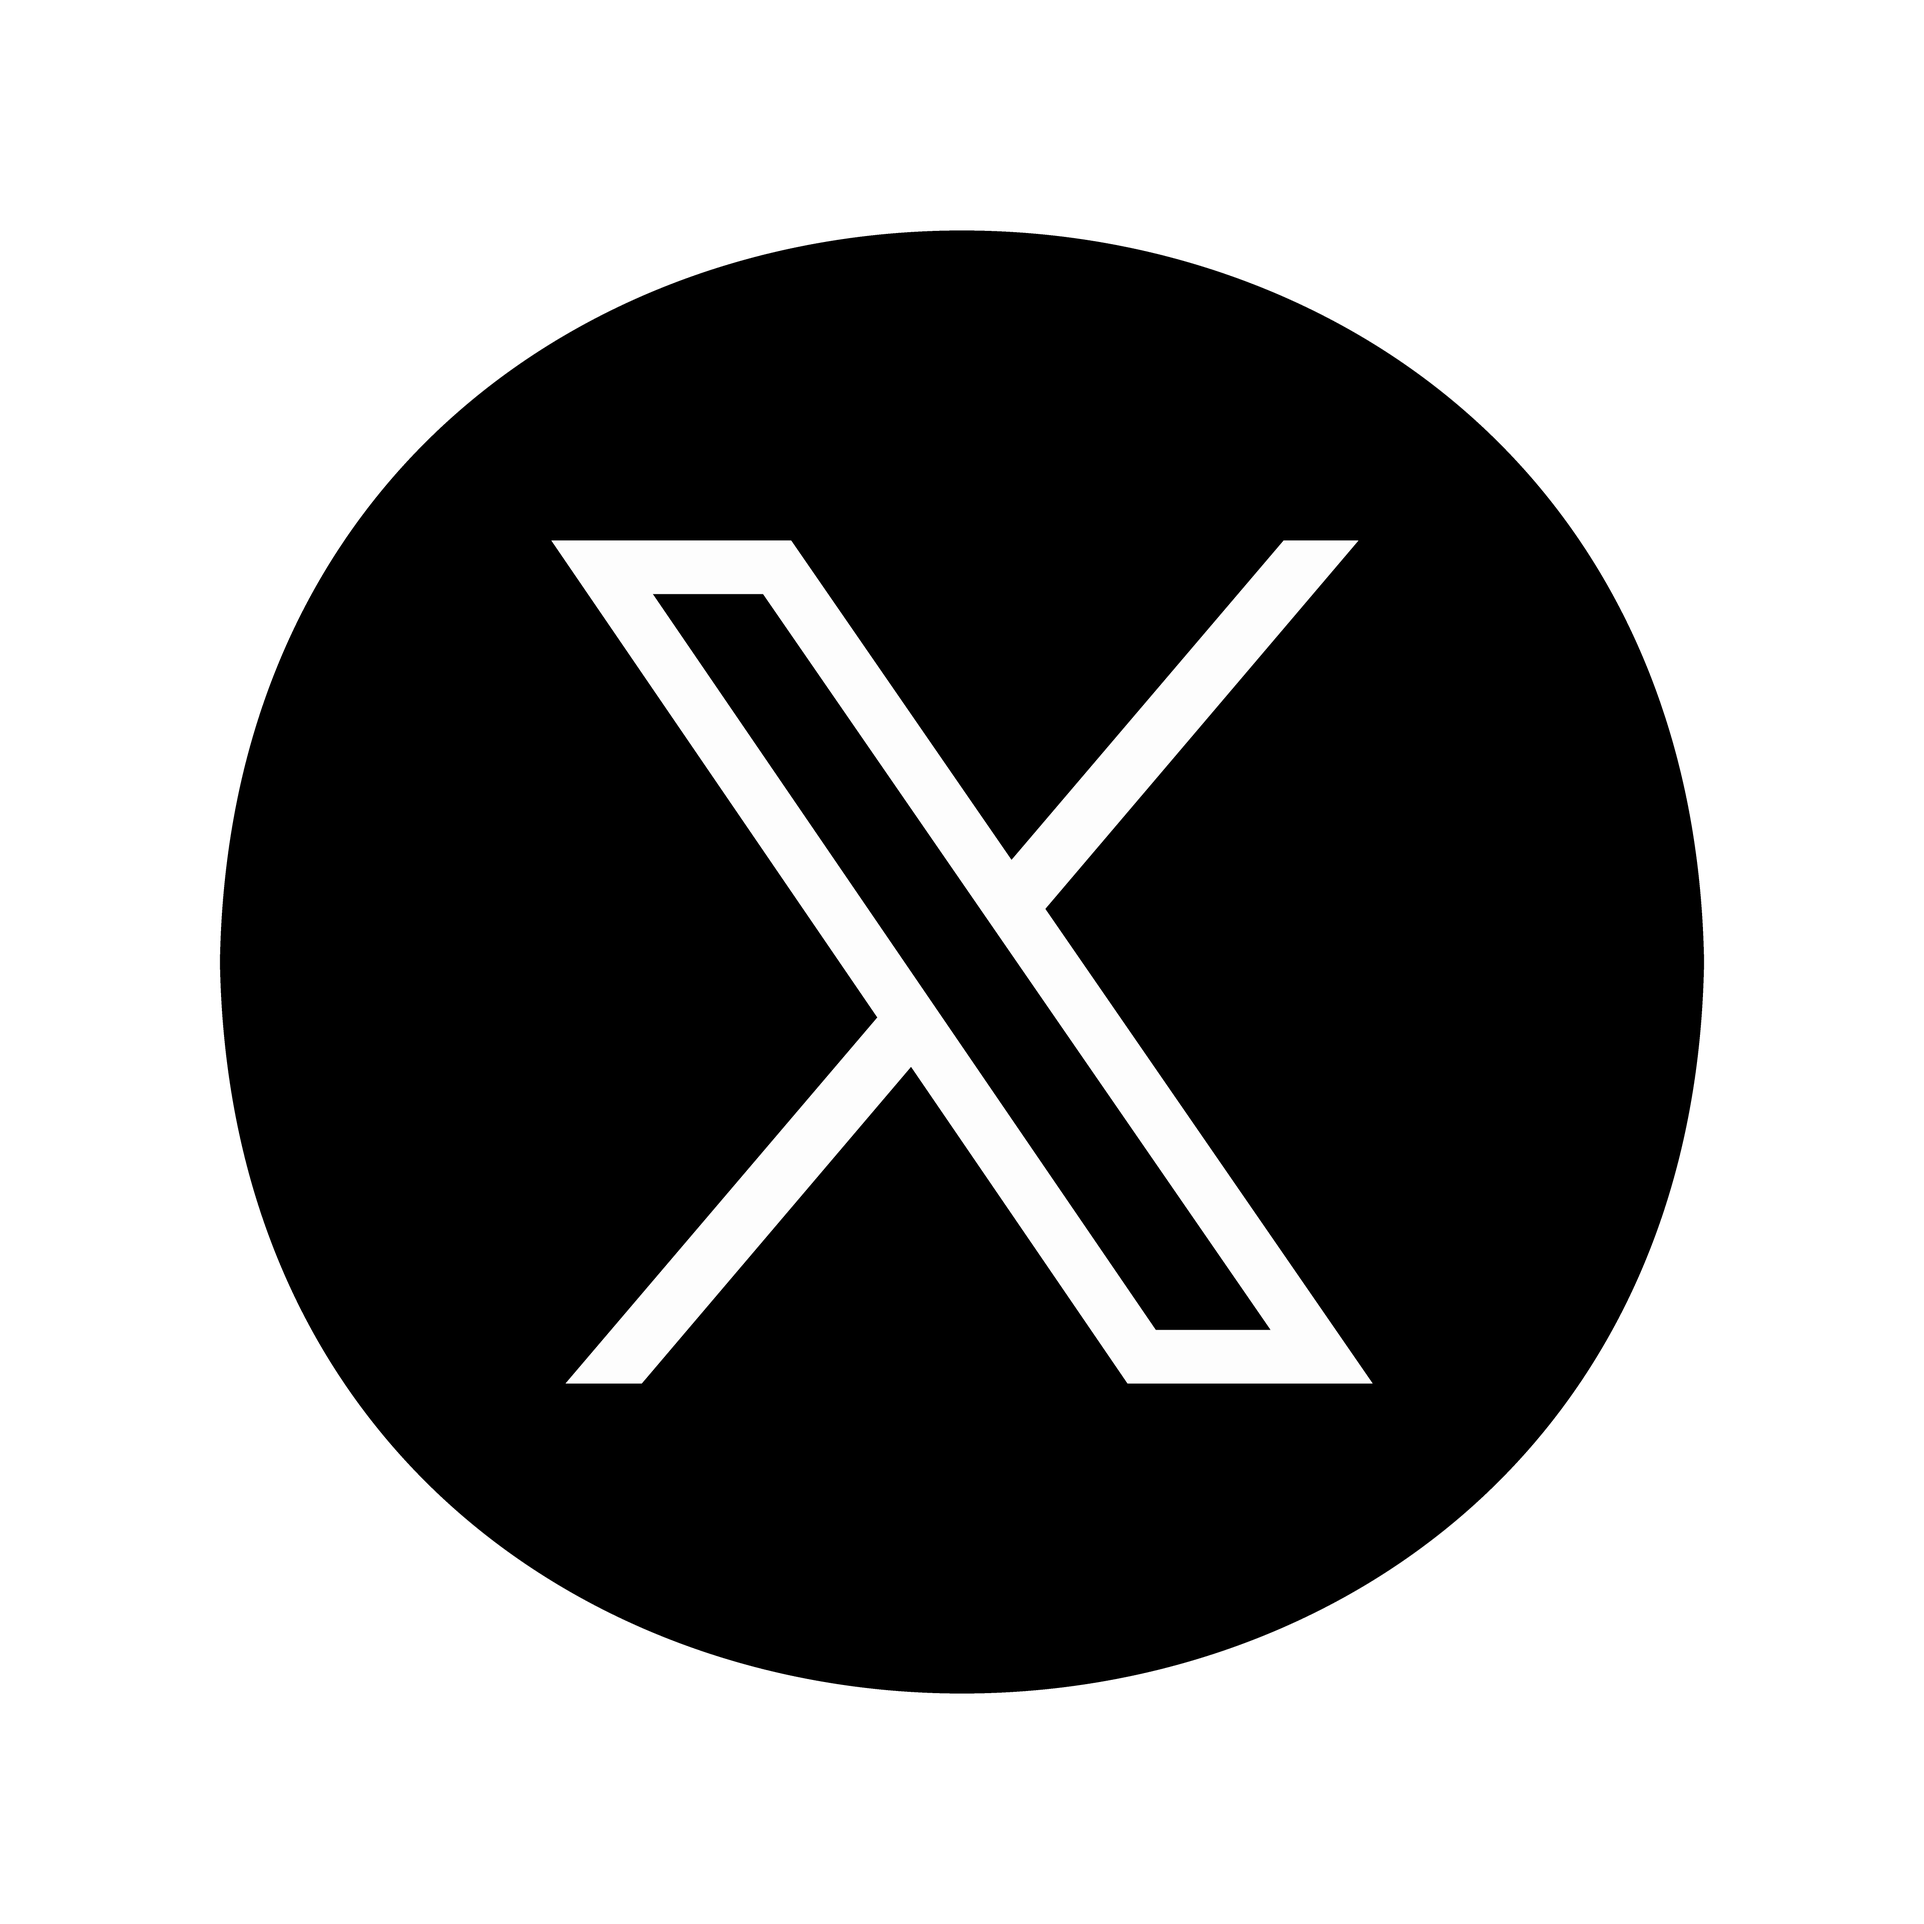
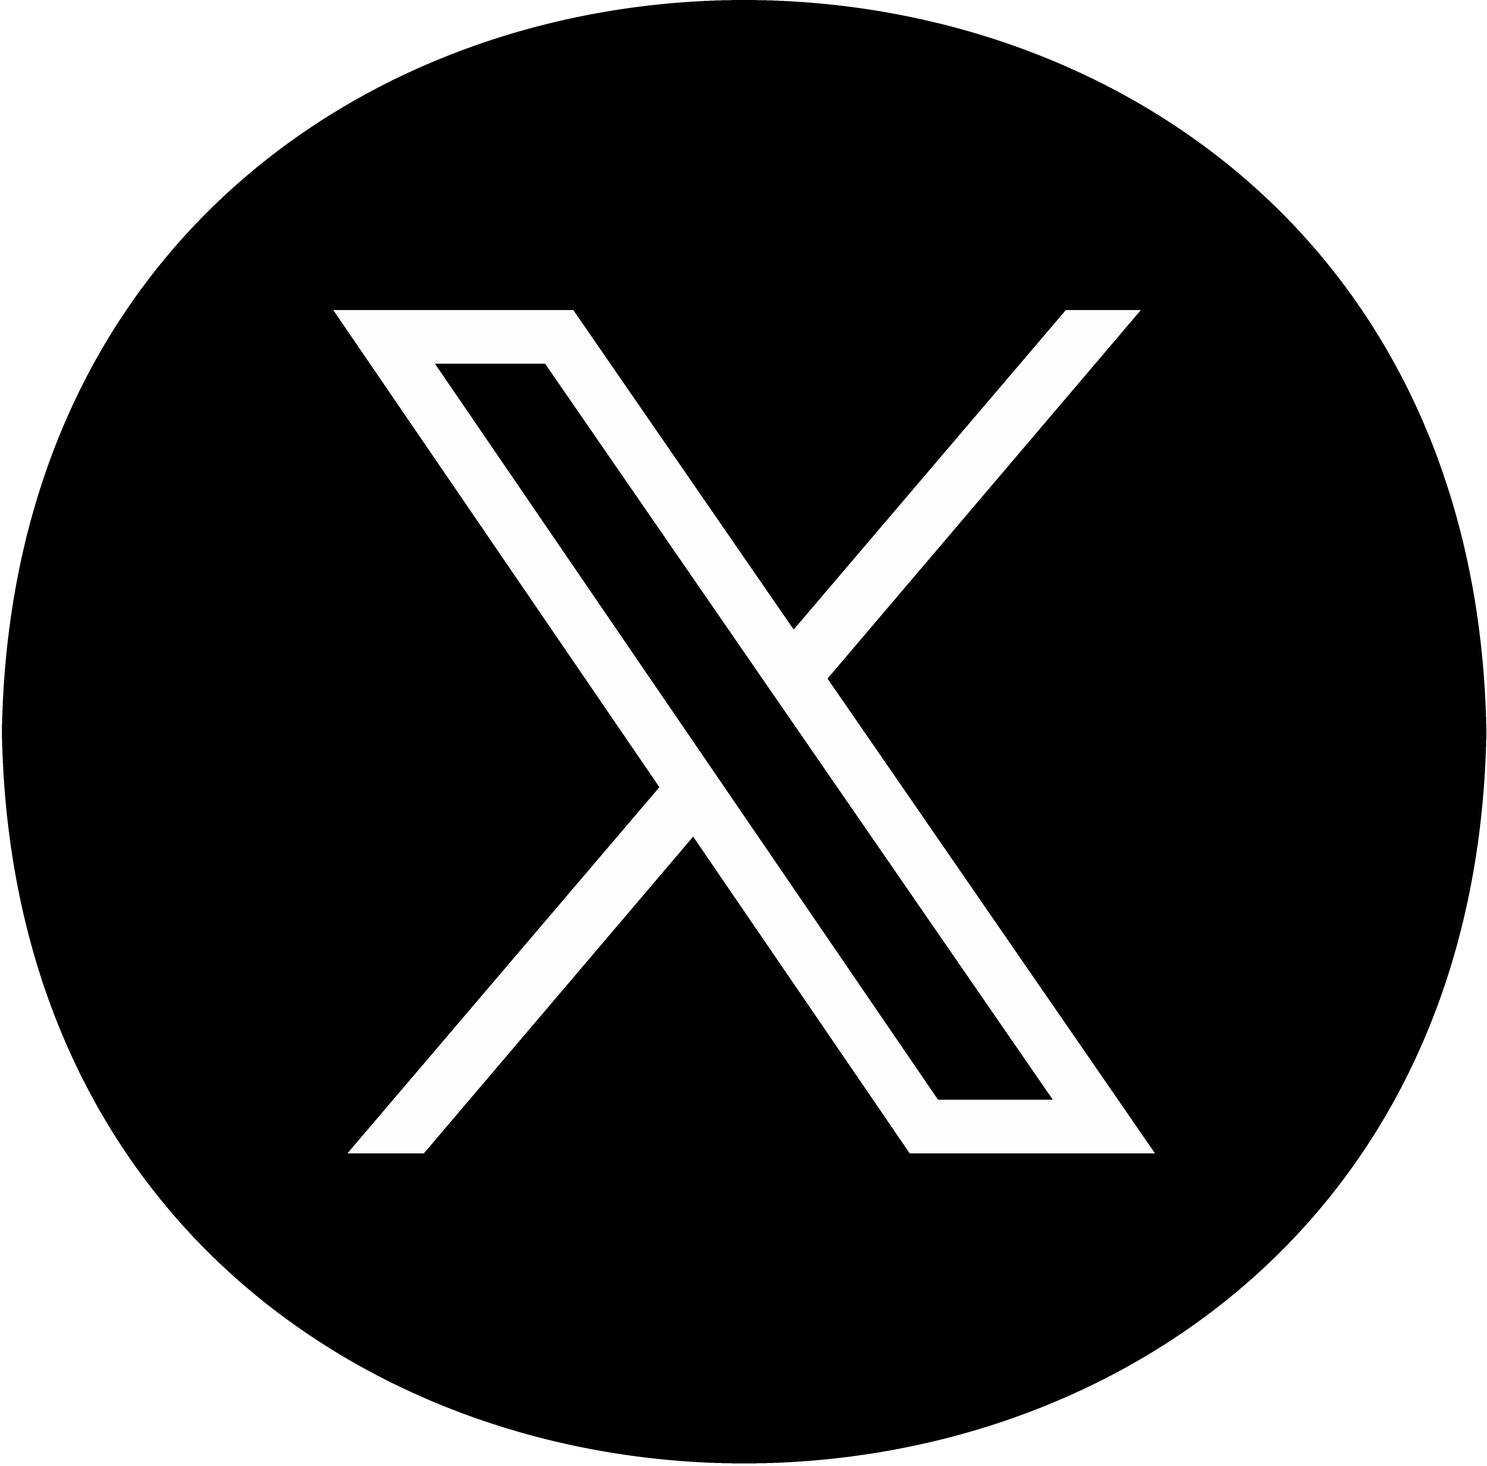
Tehnikums 2

diff --git a/index.html b/index.html
@@ -9,7 +9,7 @@
 <body>
     <header>
         <div class="top_bar">
-            <img src="logo2.png" width="220px" style="border-right: 1px solid rgb(168, 168, 168);;">
+            <img src="logo3.png" width="240px" style="border-right: 1px solid rgb(168, 168, 168);;">
             <nav>
                 <a href="#">Home</a>
                 <a href="#">Menu</a>
@@ -38,7 +38,7 @@
                 <img src="gallery2.jpg">
                 <img src="gallery3.jpg">
         </section>
-        <section id="end_section">
+        <section id="end_section" style="border-top: 0;">
             <div id="contact" style="border-right: 1px solid rgb(168, 168, 168);" class="underline_heading">
                 <h1>Contact Us</h1>
                 <p>Phone: +123 456 7890</p>

diff --git a/style.css b/style.css
@@ -9,11 +9,11 @@ body {
 }
 
 .top_bar{
-    background-color: rgb(212, 204, 196);
     display: flex;
     flex-direction: row;
     align-items: center;
     justify-content: space-between;
+    background-color: rgb(212, 204, 196);
 }
 
 nav a {
@@ -82,7 +82,7 @@ section{
     margin-top: 20px;
 }
 
-header img{
+.top_bar + img{
     border-bottom: 2px solid rgb(168, 168, 168);
 }
 
